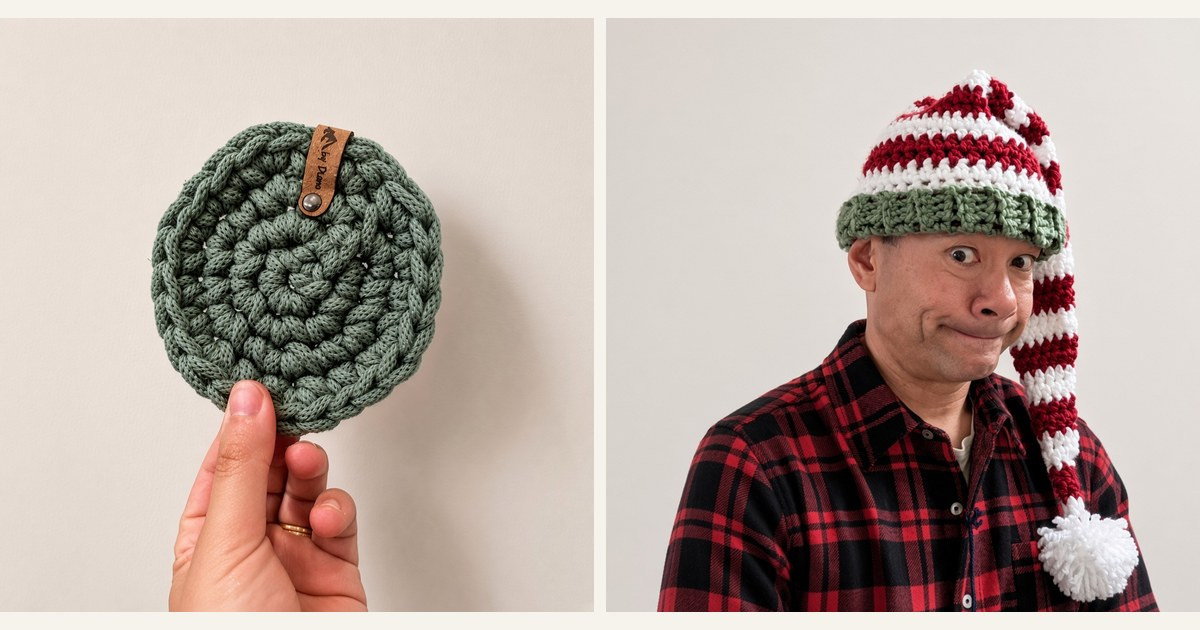
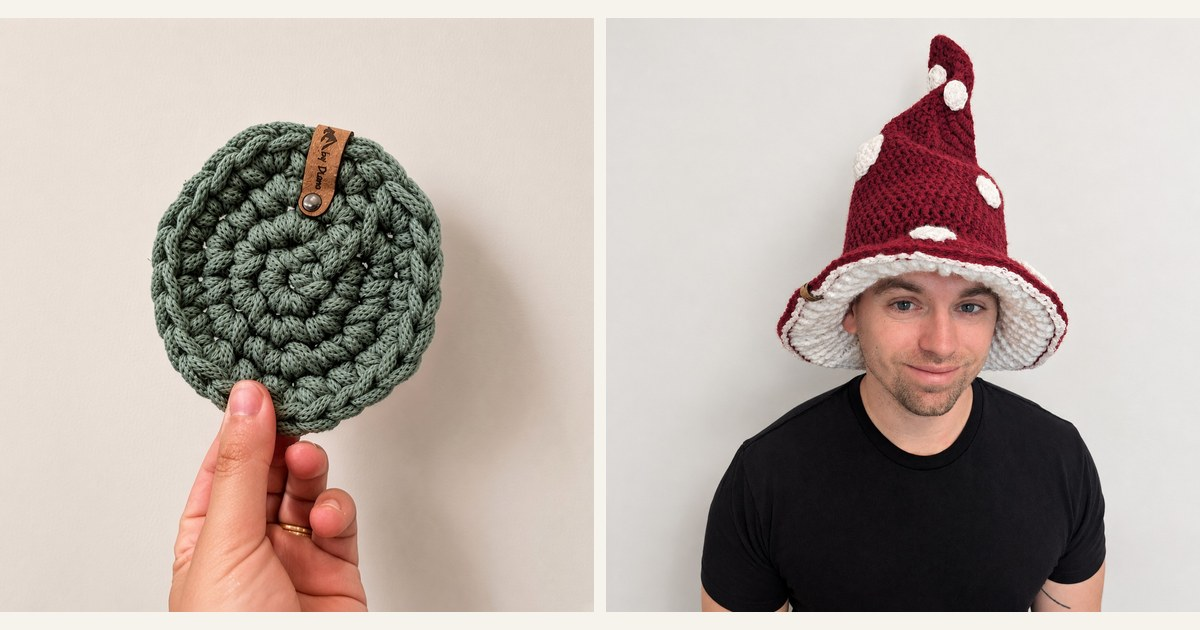
update website content and photos

Changed region(s): [[0.5242, 0.0603, 0.9867, 0.9952]]

diff --git a/src/components/inquiry-drawer.tsx b/src/components/inquiry-drawer.tsx
@@ -1,5 +1,8 @@
 "use client";
 
+import { OfflineNotice } from "@/components/offline-notice";
+import { reportNetworkFailure } from "@/lib/connection-status";
+import { CartCat } from "@/components/cart-cat";
 import { CART_FIELD_LIMITS, isValidOrderEmail } from "@/lib/cart-field-limits";
 import { useEffect, useLayoutEffect, useRef, useState } from "react";
 import Image from "next/image";
@@ -217,7 +220,12 @@ export function InquiryDrawer() {
       setNote("");
       setPickup("");
     } catch (e) {
-      setError(e instanceof Error ? e.message : "Something went wrong");
+      if (!navigator.onLine || e instanceof TypeError) {
+        reportNetworkFailure();
+        setError("The connection was interrupted. Your cart and details are still here. Check your connection before trying to send the request again.");
+      } else {
+        setError(e instanceof Error ? e.message : "Could not send your request. Try again.");
+      }
     } finally {
       setSubmitting(false);
     }
@@ -248,6 +256,7 @@ export function InquiryDrawer() {
         </SheetHeader>
 
         <div className="min-h-0 flex-1 overflow-x-hidden overflow-y-auto overscroll-contain px-4 py-4 scroll-py-4 sm:px-5">
+          <OfflineNotice compact />
           {done ? (
             <div className="rounded-xl bg-secondary/70 px-4 py-6 text-left">
               <h3 ref={confirmationHeading} tabIndex={-1} className="font-display text-xl text-ink">Request sent</h3>
@@ -263,26 +272,22 @@ export function InquiryDrawer() {
             </div>
           ) : items.length === 0 ? (
             <div className="flex min-h-[min(50vh,20rem)] flex-col items-center justify-center px-2 py-8 text-center">
-              <img
-                src="/illustrations/cat-out-of-bag.gif"
-                alt="Cat peeking out of a shopping bag"
-                width={800}
-                height={600}
-                className="mb-6 w-full max-w-[280px] object-contain"
-                decoding="async"
-              />
-              <p className="font-display text-xl text-ink">
-                Your cart is empty
+              <div className="mb-6 w-full max-w-[468px]"><CartCat /></div>
+              <p className="font-display text-3xl font-normal leading-[1.12] tracking-[-0.04em] text-ink">
+                Your cart is empty.
+              </p>
+              <p className="mt-4 font-sans text-lg leading-relaxed text-foreground">
+                Just a cat in the bag. For now.
               </p>
               <Button
                 type="button"
-                className="mt-6 h-12 w-full max-w-sm rounded-full bg-button text-base text-button-foreground hover:bg-button-hover"
+                className="mt-6 h-12 w-auto rounded-full bg-button px-6 text-base text-button-foreground hover:bg-button-hover"
                 onClick={() => {
                   setDrawerOpen(false);
                   router.push("/");
                 }}
               >
-                Shop now
+                Explore the shop
               </Button>
             </div>
           ) : (

diff --git a/src/components/offline-notice.tsx b/src/components/offline-notice.tsx
@@ -1,0 +1,40 @@
+"use client";
+
+import offlineCat from "@/data/animations/orange-cat-peeping.json";
+import { useState } from "react";
+import { NotFoundCat } from "@/components/not-found-cat";
+import { Button } from "@/components/ui/button";
+import { clearNetworkFailure, useConnectionUnavailable } from "@/lib/connection-status";
+
+export function OfflineNotice({ compact = false }: { compact?: boolean }) {
+  const unavailable = useConnectionUnavailable();
+  const [checking, setChecking] = useState(false);
+  const [message, setMessage] = useState("");
+  async function retry() {
+    setChecking(true);
+    setMessage("");
+    try {
+      const response = await fetch("/api/connection", { method: "HEAD", cache: "no-store", signal: AbortSignal.timeout(8000) });
+      if (!response.ok || !navigator.onLine) throw new Error("Unavailable");
+      clearNetworkFailure();
+      document.getElementById(compact ? "cart-heading" : "main-content")?.focus();
+    } catch {
+      setMessage("Still unable to connect. Check your internet connection and try again.");
+    } finally { setChecking(false); }
+  }
+  return (
+    <div hidden={!unavailable} className={compact ? "mb-8" : "site-gutter py-12 sm:py-20"}>
+      <section aria-label="Connection unavailable" className="mx-auto flex w-full max-w-4xl flex-col items-center gap-8 text-center">
+        <div className={compact ? "w-full max-w-[240px]" : "w-full max-w-[280px]"}>
+          <NotFoundCat animationData={offlineCat} aspectRatio="1440 / 2560" active={unavailable} />
+        </div>
+        <div className="flex w-full flex-col items-center">
+          <h2 className={`font-display leading-[1.12] tracking-[-0.04em] text-ink ${compact ? "text-3xl" : "text-[clamp(2rem,4vw,3.5rem)]"}`}>Looks like the connection wandered off.</h2>
+          <p role="status" className="mt-6 max-w-md text-lg leading-relaxed text-red-700 dark:text-red-400">{unavailable ? "Check your internet connection and try again. Your page and cart are still here." : ""}</p>
+          <Button type="button" disabled={checking} onClick={retry} className="mt-8 h-12 rounded-full bg-button px-6 text-base text-button-foreground hover:bg-button-hover">{checking ? "Checking connection…" : "Try again"}</Button>
+          {message && <p role="alert" className="mt-4 max-w-md text-left text-sm text-red-700 dark:text-red-400">{message}</p>}
+        </div>
+      </section>
+    </div>
+  );
+}

diff --git a/src/components/not-found-cat.tsx b/src/components/not-found-cat.tsx
@@ -1,0 +1,57 @@
+"use client";
+
+import { useEffect, useRef, useState } from "react";
+import { AnimationToggle } from "@/components/animation-toggle";
+import type { AnimationItem } from "lottie-web";
+
+export function NotFoundCat({ path = "/illustrations/catplay.json", aspectRatio = "1070 / 456", animationData, active = true }: { path?: string; aspectRatio?: string; animationData?: unknown; active?: boolean }) {
+  const container = useRef<HTMLDivElement>(null);
+  const animation = useRef<AnimationItem | null>(null);
+  const [playing, setPlaying] = useState(false);
+  const [ready, setReady] = useState(false);
+
+  useEffect(() => {
+    let disposed = false;
+    const preference = window.matchMedia("(prefers-reduced-motion: reduce)");
+    function reduceMotion() {
+      if (preference.matches) {
+        animation.current?.pause();
+        setPlaying(false);
+      }
+    }
+    preference.addEventListener("change", reduceMotion);
+    void import("lottie-web").then(({ default: lottie }) => {
+      if (disposed || !container.current) return;
+      const player = lottie.loadAnimation({
+        container: container.current, renderer: "svg", loop: true,
+        autoplay: false, ...(animationData ? { animationData } : { path }),
+        rendererSettings: { preserveAspectRatio: "xMidYMid meet" },
+      });
+      animation.current = player;
+      player.addEventListener("DOMLoaded", () => {
+        if (disposed) return;
+        setReady(true);
+        if (active && !preference.matches) { player.play(); setPlaying(true); }
+        else player.goToAndStop(0, true);
+      });
+    });
+    return () => {
+      disposed = true;
+      preference.removeEventListener("change", reduceMotion);
+      animation.current?.destroy();
+      animation.current = null;
+    };
+  }, [path, animationData, active]);
+
+  return (
+    <div className="relative w-full">
+      <div className="w-full overflow-hidden rounded-[8px]" style={{ aspectRatio }} aria-hidden="true">
+        <div ref={container} className="h-full w-full" />
+      </div>
+      {ready && <AnimationToggle playing={playing} onClick={() => {
+        if (playing) animation.current?.pause(); else animation.current?.play();
+        setPlaying(!playing);
+      }} />}
+    </div>
+  );
+}

diff --git a/src/components/error-state.tsx b/src/components/error-state.tsx
@@ -1,0 +1,26 @@
+"use client";
+
+import Link from "next/link";
+import { useEffect, useRef } from "react";
+import { NotFoundCat } from "@/components/not-found-cat";
+import { Button } from "@/components/ui/button";
+
+export function ErrorState({ retry }: { retry: () => void }) {
+  const heading = useRef<HTMLHeadingElement>(null);
+  useEffect(() => { heading.current?.focus(); }, []);
+  return (
+    <div className="site-gutter bg-background py-12 sm:py-20">
+      <section aria-labelledby="error-heading" className="site-width flex flex-col items-center gap-10 text-center">
+        <div className="w-full max-w-[600px]"><NotFoundCat /></div>
+        <div className="flex w-full max-w-4xl flex-col items-center">
+          <h1 ref={heading} tabIndex={-1} id="error-heading" className="font-display text-[clamp(2rem,4vw,3.5rem)] leading-[1.12] tracking-[-0.04em] text-ink focus:outline-none">A stitch came loose.</h1>
+          <p className="mx-auto mt-6 max-w-md text-lg leading-relaxed text-foreground">Something went wrong. Let&apos;s try that again.</p>
+          <div className="mt-8 flex flex-wrap justify-center gap-3">
+            <Button type="button" onClick={retry} className="h-12 rounded-full bg-button px-6 text-base text-button-foreground hover:bg-button-hover">Try again</Button>
+            <Button variant="outline" render={<Link href="/" />} className="h-12 rounded-full px-6 text-base">Back to home</Button>
+          </div>
+        </div>
+      </section>
+    </div>
+  );
+}

diff --git a/src/app/not-found.tsx b/src/app/not-found.tsx
@@ -1,0 +1,26 @@
+import type { Metadata } from "next";
+import Link from "next/link";
+import { NotFoundCat } from "@/components/not-found-cat";
+
+export const metadata: Metadata = {
+  title: "Page not found",
+  description: "This page has wandered off. Head back to Diana's art for handmade crochet in Flagstaff.",
+  robots: { index: false, follow: true },
+};
+
+export default function NotFound() {
+  return (
+    <div className="site-gutter bg-background py-12 sm:py-20">
+      <section aria-labelledby="not-found-heading" className="site-width flex flex-col items-center gap-10 text-center">
+        <div className="w-full max-w-[600px]">
+          <NotFoundCat />
+        </div>
+        <div className="flex w-full max-w-4xl flex-col items-center">
+          <h1 id="not-found-heading" className="font-display text-[clamp(2rem,4vw,3.5rem)] leading-[1.12] tracking-[-0.04em] text-ink lg:whitespace-nowrap">This page has wandered off.</h1>
+          <p className="mx-auto mt-6 max-w-md text-lg leading-relaxed text-foreground">A little like a cat with a ball of yarn.</p>
+          <Link href="/" className="mt-8 inline-flex min-h-12 items-center justify-center gap-2 rounded-full bg-button px-6 py-3 text-base font-medium text-button-foreground hover:bg-button-hover focus-visible:outline-2 focus-visible:outline-offset-4 focus-visible:outline-foreground">Back to home</Link>
+        </div>
+      </section>
+    </div>
+  );
+}

diff --git a/src/components/cart-cat.tsx b/src/components/cart-cat.tsx
@@ -1,0 +1,29 @@
+"use client";
+
+import { useEffect, useState } from "react";
+import { AnimationToggle } from "@/components/animation-toggle";
+
+export function CartCat() {
+  const [playing, setPlaying] = useState(false);
+  const [frame, setFrame] = useState(0);
+  useEffect(() => {
+    const preference = window.matchMedia("(prefers-reduced-motion: reduce)");
+    const syncPreference = () => setPlaying(!preference.matches);
+    syncPreference();
+    preference.addEventListener("change", syncPreference);
+    return () => preference.removeEventListener("change", syncPreference);
+  }, []);
+  useEffect(() => {
+    if (!playing) return;
+    const timer = window.setInterval(() => setFrame(current => (current + 1) % 20), 100);
+    return () => window.clearInterval(timer);
+  }, [playing]);
+  return <div className="relative w-full">
+    <div aria-hidden="true" className="aspect-[4/3] w-full bg-no-repeat" style={{
+      backgroundImage: "url('/illustrations/cart-cat-sprite.webp')",
+      backgroundSize: "500% 400%",
+      backgroundPosition: `${(frame % 5) * 25}% ${Math.floor(frame / 5) * (100 / 3)}%`,
+    }} />
+    <AnimationToggle playing={playing} onClick={() => setPlaying(current => !current)} />
+  </div>;
+}

diff --git a/src/lib/connection-status.ts b/src/lib/connection-status.ts
@@ -1,0 +1,28 @@
+"use client";
+
+import { useSyncExternalStore } from "react";
+
+let requestFailed = false;
+const eventName = "diana-connection-change";
+export function reportNetworkFailure() {
+  requestFailed = true;
+  window.dispatchEvent(new Event(eventName));
+}
+export function clearNetworkFailure() {
+  requestFailed = false;
+  window.dispatchEvent(new Event(eventName));
+}
+function subscribe(callback: () => void) {
+  const online = () => { requestFailed = false; callback(); };
+  window.addEventListener("online", online);
+  window.addEventListener("offline", callback);
+  window.addEventListener(eventName, callback);
+  return () => {
+    window.removeEventListener("online", online);
+    window.removeEventListener("offline", callback);
+    window.removeEventListener(eventName, callback);
+  };
+}
+export function useConnectionUnavailable() {
+  return useSyncExternalStore(subscribe, () => !navigator.onLine || requestFailed, () => false);
+}

diff --git a/src/app/global-error.tsx b/src/app/global-error.tsx
@@ -1,0 +1,16 @@
+"use client";
+
+import { Tenor_Sans, Pontano_Sans } from "next/font/google";
+import { ErrorState } from "@/components/error-state";
+import { ThemeProvider } from "@/components/theme-provider";
+import "./globals.css";
+
+const display = Tenor_Sans({ variable: "--font-display", subsets: ["latin"], weight: "400" });
+const sans = Pontano_Sans({ variable: "--font-sans", subsets: ["latin"], weight: ["300", "400", "500", "600", "700"] });
+
+export default function GlobalError({ retry }: { error: Error & { digest?: string }; retry: () => void }) {
+  return <html lang="en" className={`${display.variable} ${sans.variable} antialiased`} suppressHydrationWarning>
+    <head><title>Something went wrong · Diana&apos;s art</title><meta name="robots" content="noindex" /></head>
+    <body className="min-h-screen font-sans"><ThemeProvider><main><ErrorState retry={retry} /></main></ThemeProvider></body>
+  </html>;
+}

diff --git a/src/app/layout.tsx b/src/app/layout.tsx
@@ -4,6 +4,7 @@ import { SiteHeader } from "@/components/site-header";
 import { InquiryCartProvider } from "@/lib/inquiry-cart";
 import { ThemeProvider } from "@/components/theme-provider";
 import { SITE_NAME } from "@/lib/site";
+import { OfflineNotice } from "@/components/offline-notice";
 import { SITE_URL } from "@/lib/social-sharing";
 import "./globals.css";
 
@@ -56,7 +57,7 @@ export default function RootLayout({ children }: LayoutProps<"/">) {
           <InquiryCartProvider>
             <a href="#main-content" className="skip-link">Skip to content</a>
             <SiteHeader />
-            <main id="main-content" tabIndex={-1} className="flex-1 pb-16">{children}</main>
+            <main id="main-content" tabIndex={-1} className="flex-1 pb-16"><OfflineNotice />{children}</main>
           </InquiryCartProvider>
         </ThemeProvider>
       </body>

diff --git a/src/components/animation-toggle.tsx b/src/components/animation-toggle.tsx
@@ -1,0 +1,11 @@
+"use client";
+
+import { Pause, Play } from "lucide-react";
+import { Button } from "@/components/ui/button";
+
+export function AnimationToggle({ playing, onClick }: { playing: boolean; onClick: () => void }) {
+  const label = playing ? "Pause cat animation" : "Play cat animation";
+  return <Button type="button" variant="ghost" size="icon" aria-label={label} title={label} className="absolute bottom-0 right-0 size-11 rounded-full text-foreground focus-visible:outline-2 focus-visible:outline-offset-4 focus-visible:outline-foreground" onClick={onClick}>
+    {playing ? <Pause aria-hidden="true" className="size-4" /> : <Play aria-hidden="true" className="size-4" />}
+  </Button>;
+}

diff --git a/src/app/error.tsx b/src/app/error.tsx
@@ -1,0 +1,7 @@
+"use client";
+
+import { ErrorState } from "@/components/error-state";
+
+export default function ErrorPage({ retry }: { error: Error & { digest?: string }; retry: () => void }) {
+  return <ErrorState retry={retry} />;
+}

diff --git a/src/app/api/connection/route.ts b/src/app/api/connection/route.ts
@@ -1,0 +1,5 @@
+export const dynamic = "force-dynamic";
+
+export function HEAD() {
+  return new Response(null, { status: 204, headers: { "Cache-Control": "no-store" } });
+}
